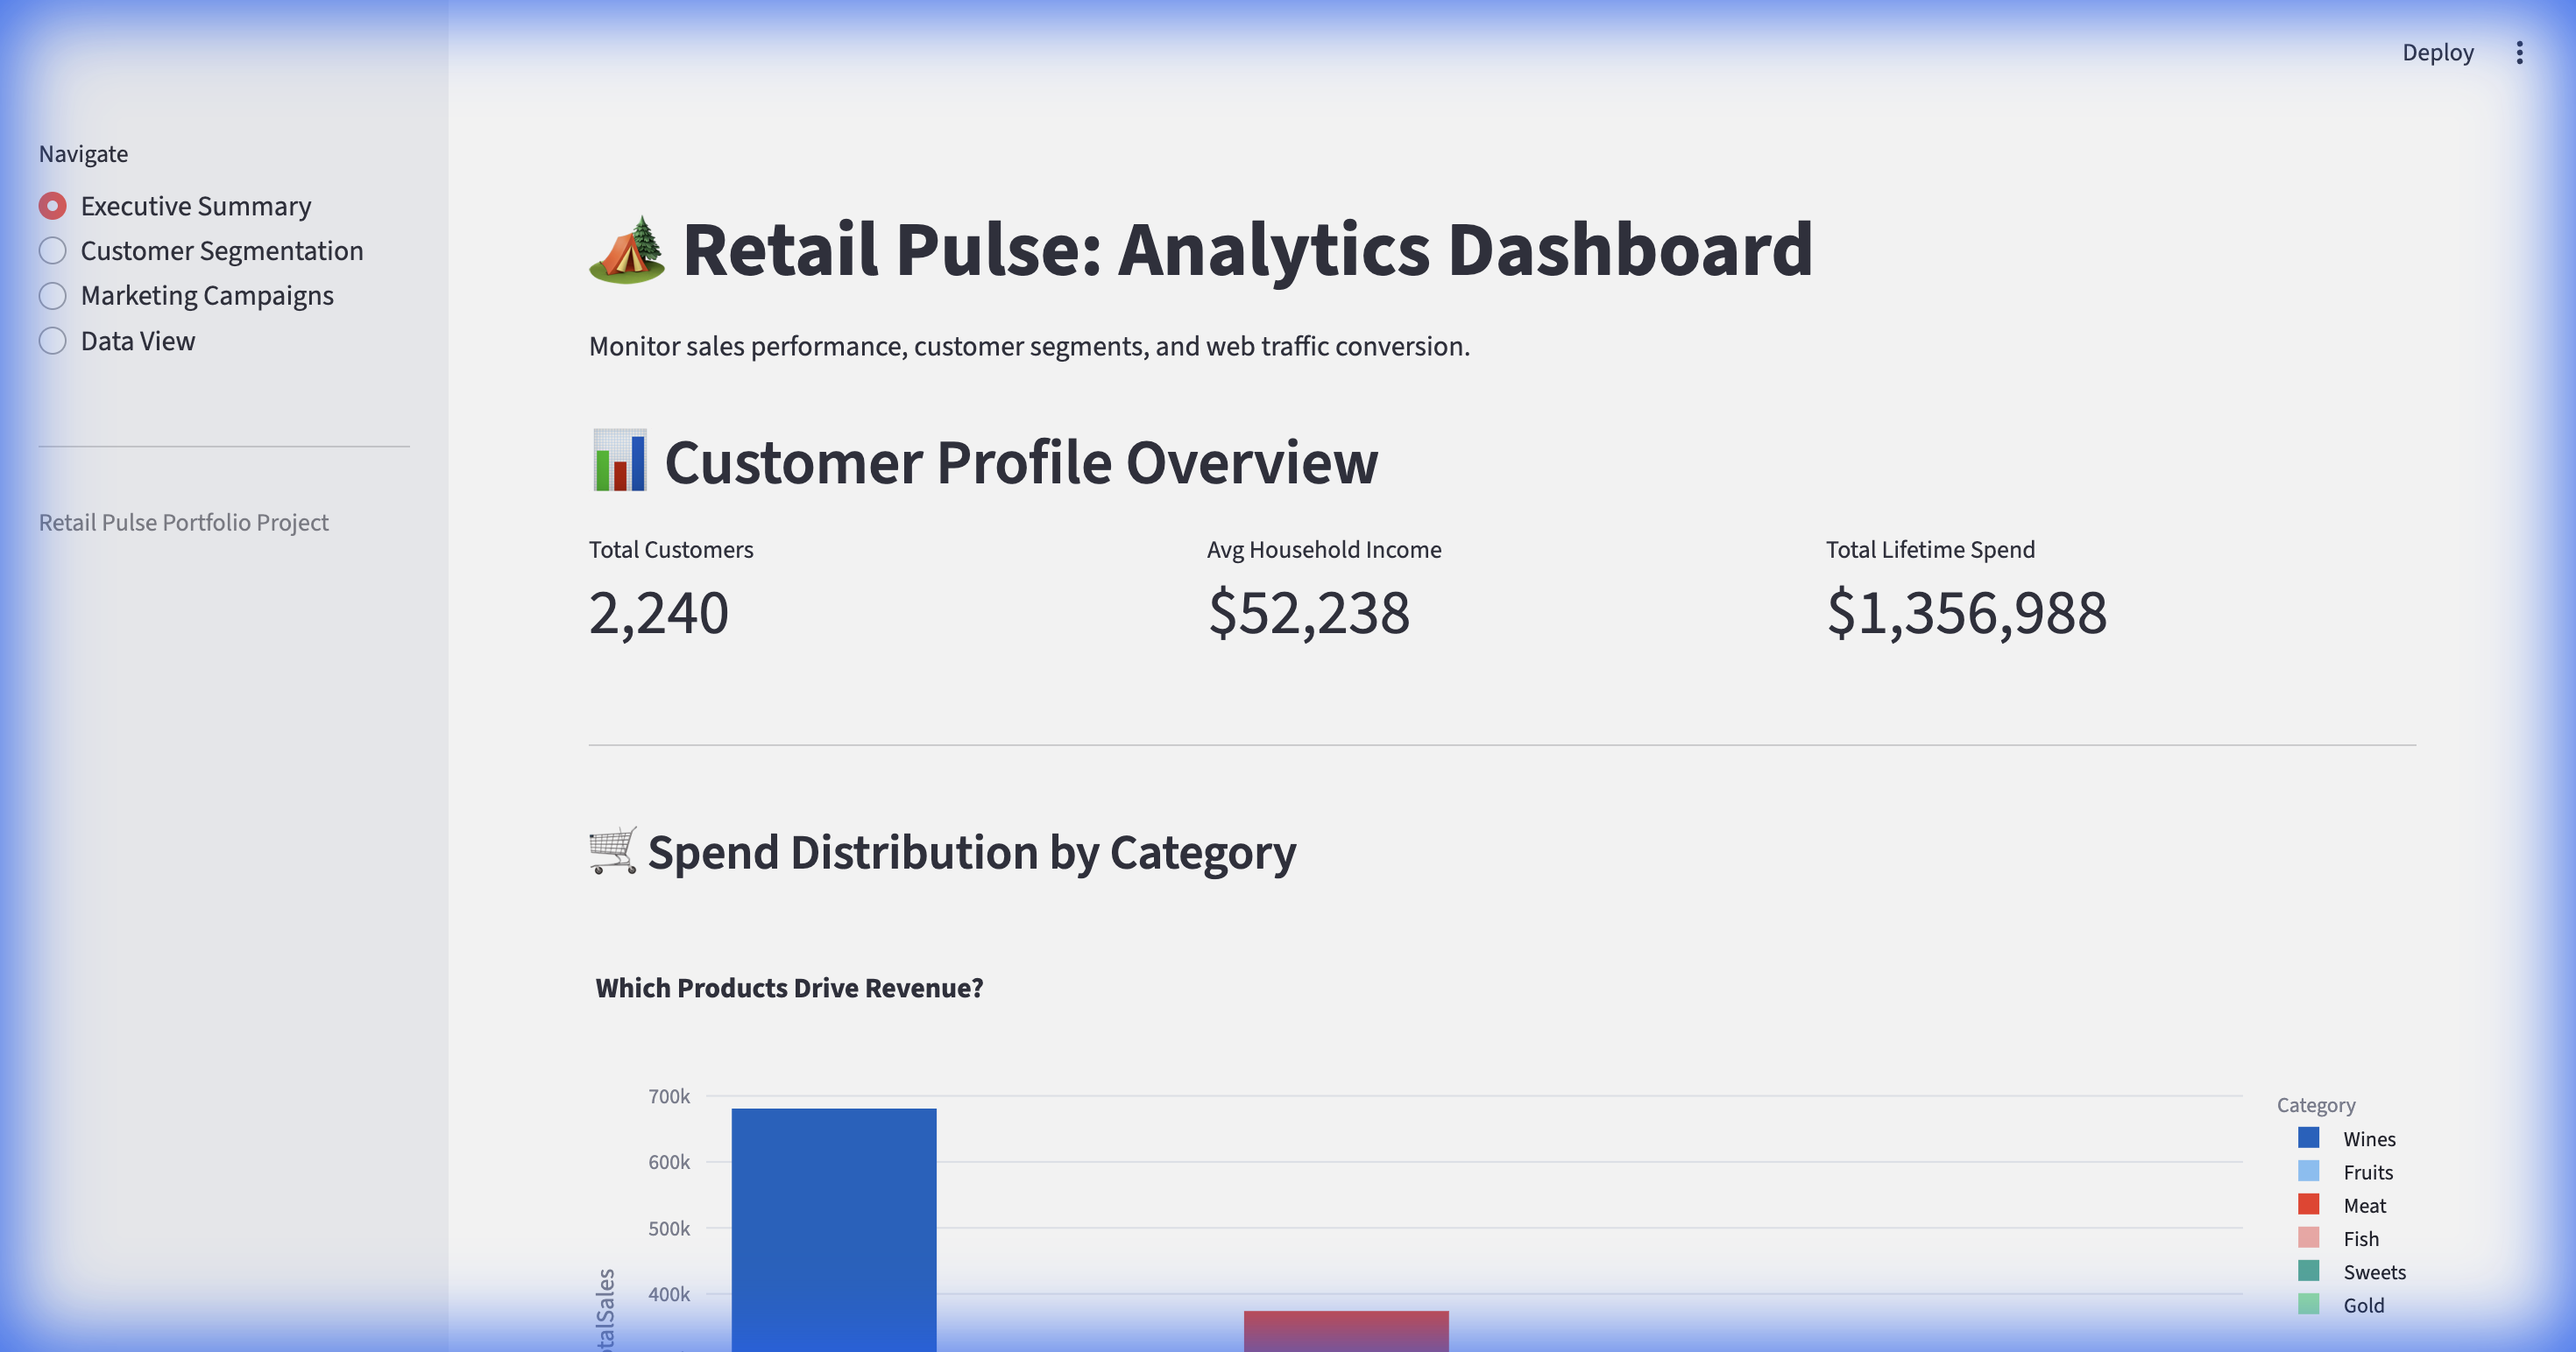
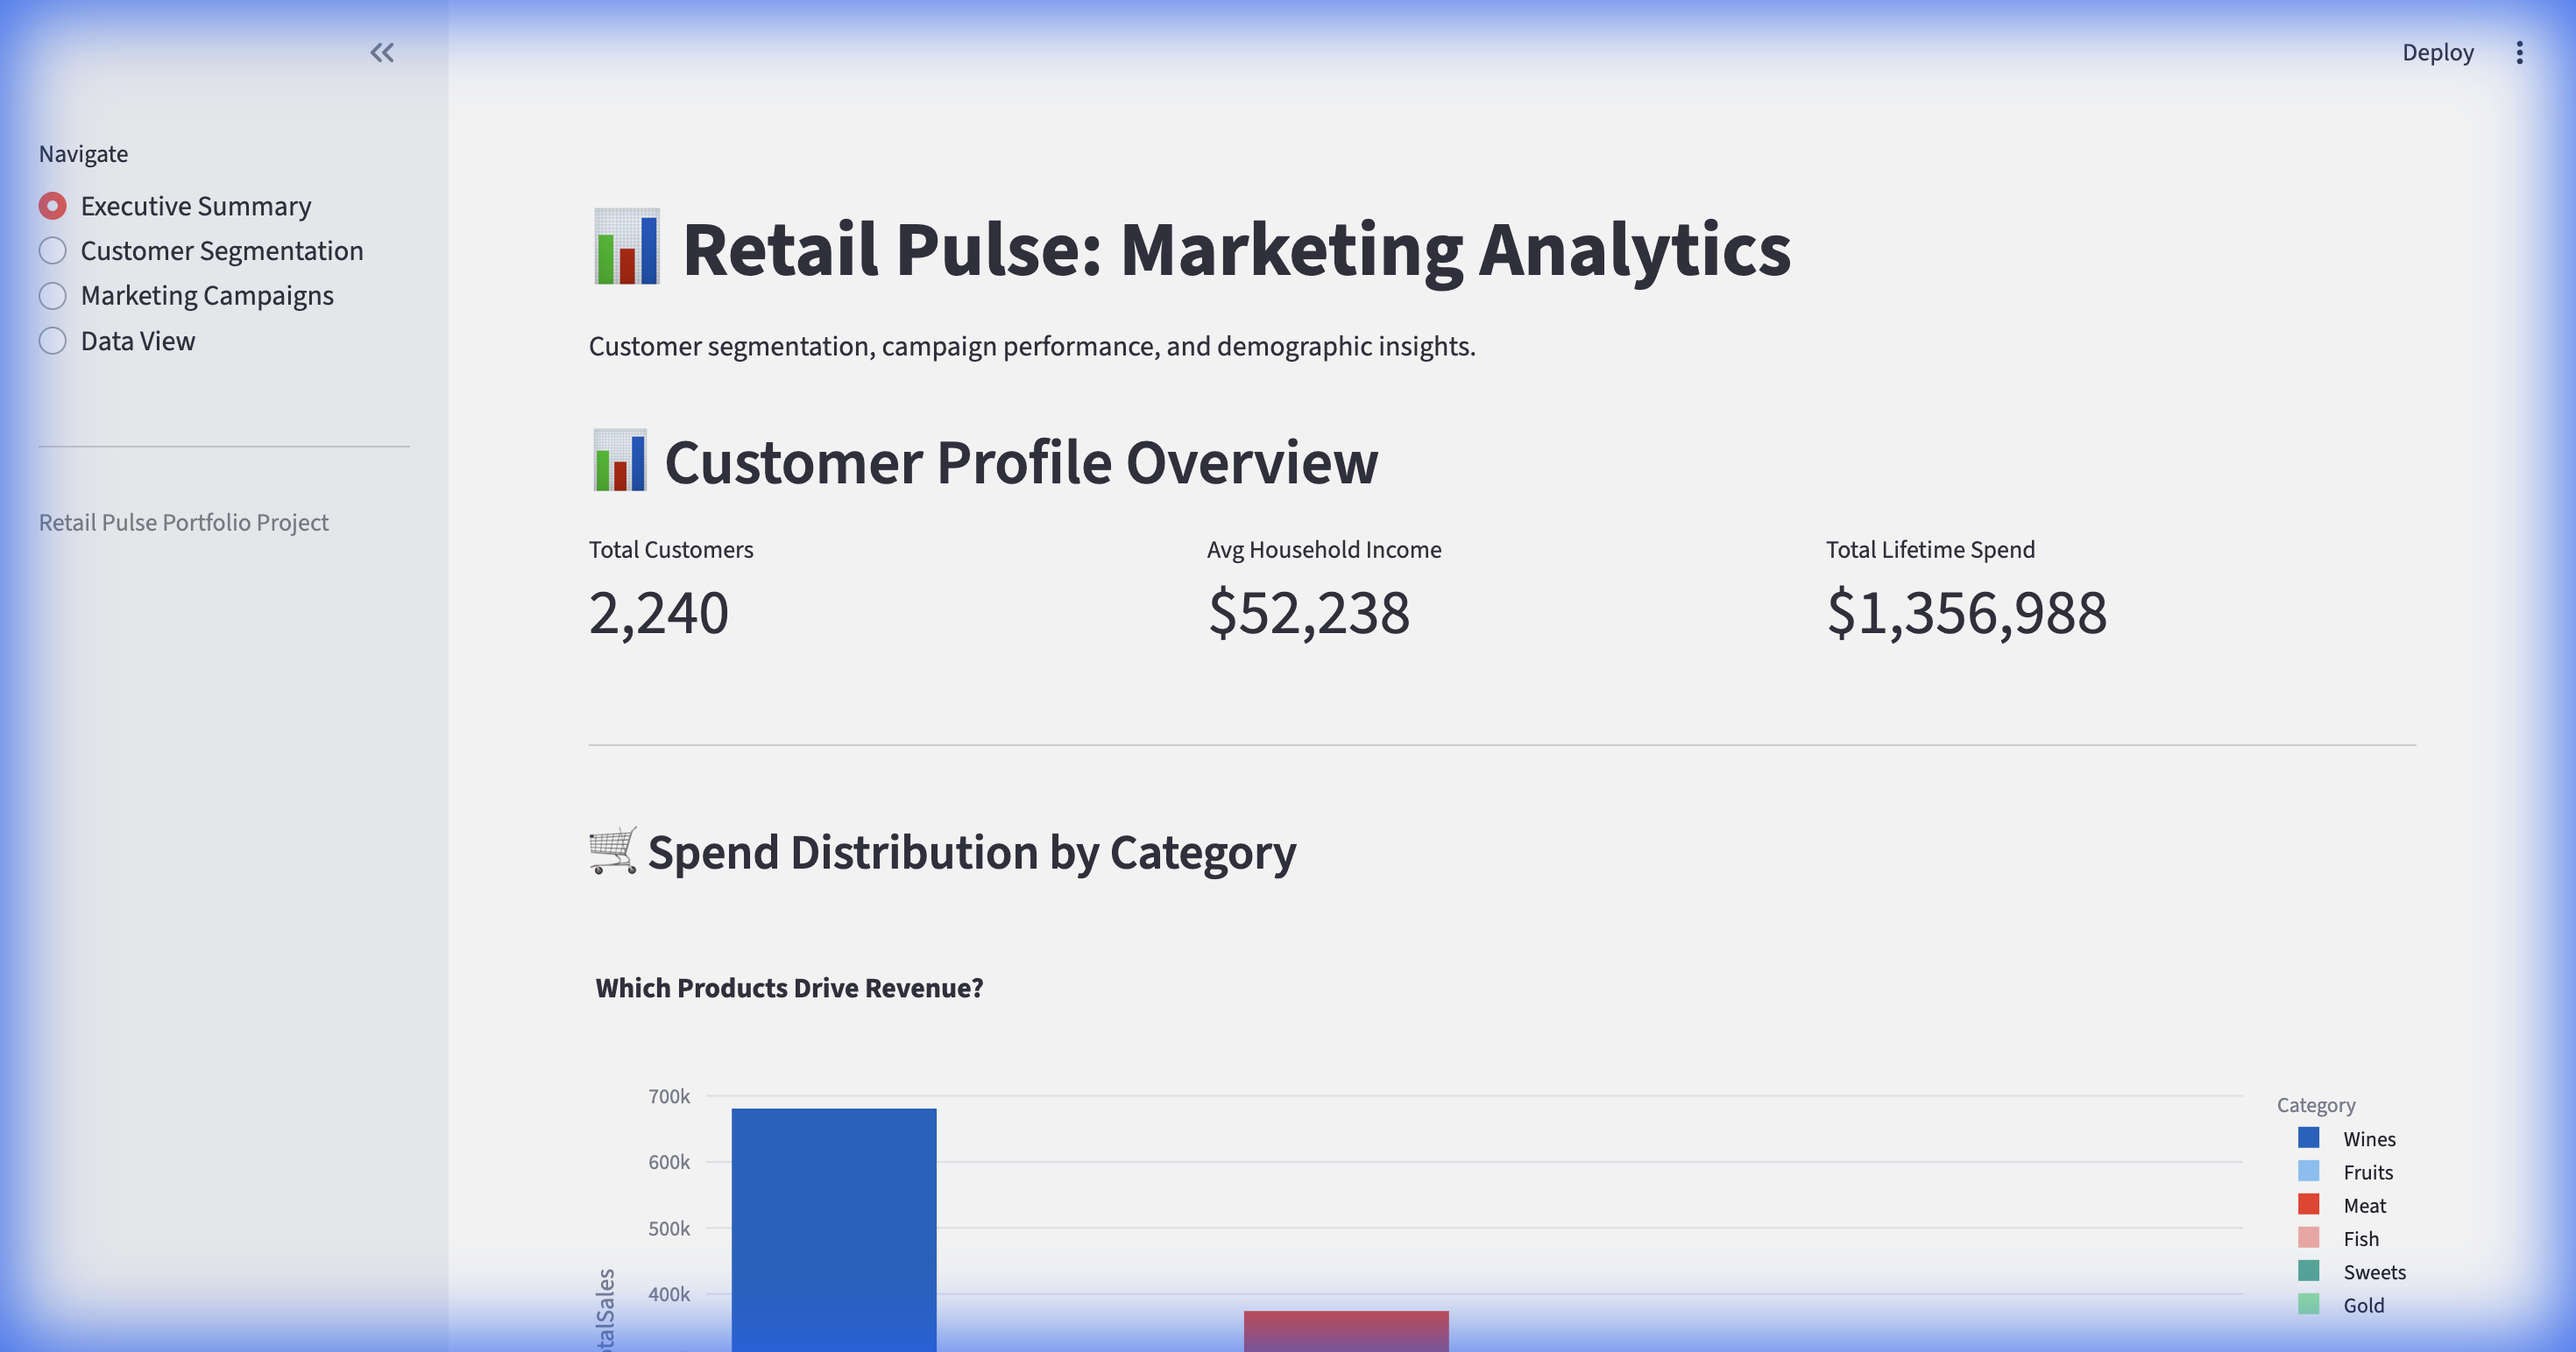
Refactor project for marketing campaign dataset
- Update README with accurate project description
- Remove unused files: data_generator.py, kpi_sales.sql, task docs
- Clean db_manager.py: remove unused table definitions, improve data cleaning
- Update app.py: new branding, simplified table whitelist
- Update verify_queries.py: test only marketing data queries
- Update requirements.txt with actual dependencies
- New dashboard screenshot

Changed region(s): [[0.4333, 0.1554, 0.7119, 0.2176], [0.2167, 0.2487, 0.5571, 0.2798], [0.2167, 0.1554, 0.2786, 0.2176]]

diff --git a/src/db_manager.py b/src/db_manager.py
@@ -3,24 +3,17 @@ import pandas as pd
 import os
 
 DB_PATH = os.path.join(os.path.dirname(__file__), '../data/retail_pulse.db')
-RAW_DATA_DIR = os.path.join(os.path.dirname(__file__), '../data/raw')
 
 def init_db():
     """
     Initializes the SQLite database with the required tables.
     """
     print(f"Initializing database at {DB_PATH}...")
+    os.makedirs(os.path.dirname(DB_PATH), exist_ok=True)
     conn = sqlite3.connect(DB_PATH)
     cursor = conn.cursor()
     
-    # Create Tables for original synthetic data (keeping for reference unless fully replaced)
-    cursor.execute('''CREATE TABLE IF NOT EXISTS customers (customer_id INTEGER PRIMARY KEY, name TEXT, email TEXT, state TEXT, signup_date DATE)''')
-    cursor.execute('''CREATE TABLE IF NOT EXISTS products (product_id INTEGER PRIMARY KEY, name TEXT, category TEXT, price REAL)''')
-    cursor.execute('''CREATE TABLE IF NOT EXISTS transactions (order_id INTEGER PRIMARY KEY, customer_id INTEGER, product_id INTEGER, date DATE, amount REAL, quantity INTEGER)''')
-    cursor.execute('''CREATE TABLE IF NOT EXISTS web_traffic (session_id TEXT, user_id INTEGER, page_path TEXT, duration_seconds INTEGER, converted BOOLEAN, timestamp DATETIME)''')
-
-    # --- NEW: Marketing Campaign Table ---
-    # Based on the CSV structure: ID, Year_Birth, Education, Marital_Status, Income, etc.
+    # Marketing Campaign Table
     cursor.execute('''
     CREATE TABLE IF NOT EXISTS marketing_data (
         ID INTEGER PRIMARY KEY,
@@ -61,16 +54,15 @@ def init_db():
 
 def clean_and_load():
     """
-    Reads CSVs, cleans data, and loads it into the database.
+    Reads marketing_campaign.csv, cleans data, and loads it into the database.
     """
     print("Loading data...")
     conn = sqlite3.connect(DB_PATH)
     
-    # --- Load Marketing Campaign Data ---
     marketing_path = os.path.join(os.path.dirname(__file__), '../marketing_campaign.csv')
     if os.path.exists(marketing_path):
         print(f"Loading {marketing_path}...")
-        # Read Tab-Separated Values (sep='\t')
+        # Read Tab-Separated Values
         df = pd.read_csv(marketing_path, sep='\t')
         
         # Data Cleaning
@@ -78,15 +70,19 @@ def clean_and_load():
         df['Income'] = df['Income'].fillna(df['Income'].median())
         
         # 2. Parse Dt_Customer to YYYY-MM-DD
-        # Original format seems to be dd-mm-yyyy based on view_file output (e.g. 04-09-2012)
         df['Dt_Customer'] = pd.to_datetime(df['Dt_Customer'], dayfirst=True).dt.date
         
-        # 3. Clean Marital Status (consolidate 'Alone', 'Absurd', 'YOLO' -> 'Single' or similar if needed, keeping simple for now)
+        # 3. Clean unusual Marital Status values
+        df['Marital_Status'] = df['Marital_Status'].replace({
+            'Alone': 'Single',
+            'Absurd': 'Other',
+            'YOLO': 'Other'
+        })
         
         df.to_sql('marketing_data', conn, if_exists='replace', index=False)
-        print("Marketing data loaded.")
+        print(f"Loaded {len(df)} records.")
     else:
-        print("Warning: marketing_campaign.csv not found at expected path.")
+        print("Error: marketing_campaign.csv not found.")
     
     conn.close()
     print("Data loaded successfully.")

diff --git a/src/app.py b/src/app.py
@@ -5,7 +5,7 @@ import os
 import plotly.express as px
 
 # Set page config
-st.set_page_config(page_title="Retail Pulse Analytics", layout="wide", page_icon="🏕")
+st.set_page_config(page_title="Retail Pulse Analytics", layout="wide", page_icon="📊")
 
 # Constants
 DB_PATH = os.path.join(os.path.dirname(__file__), '../data/retail_pulse.db')
@@ -27,7 +27,7 @@ def run_query(query_file):
         conn.close()
 
 # Whitelist of valid table names to prevent SQL injection
-VALID_TABLES = {'customers', 'products', 'transactions', 'web_traffic', 'marketing_data'}
+VALID_TABLES = {'marketing_data'}
 
 def load_data(table_name):
     """Loads a raw table from the database."""
@@ -39,8 +39,8 @@ def load_data(table_name):
     return df
 
 # Main App Layout
-st.title("🏕 Retail Pulse: Analytics Dashboard")
-st.markdown("Monitor sales performance, customer segments, and web traffic conversion.")
+st.title("📊 Retail Pulse: Marketing Analytics")
+st.markdown("Customer segmentation, campaign performance, and demographic insights.")
 
 
 # Sidebar Navigation

diff --git a/src/verify_queries.py b/src/verify_queries.py
@@ -6,6 +6,7 @@ DB_PATH = os.path.join(os.path.dirname(__file__), '../data/retail_pulse.db')
 SQL_DIR = os.path.join(os.path.dirname(__file__), '../sql')
 
 def run_query(filename):
+    """Execute a SQL query file and display results."""
     print(f"\n--- Running {filename} ---")
     with open(os.path.join(SQL_DIR, filename), 'r') as f:
         query = f.read()
@@ -21,7 +22,6 @@ def run_query(filename):
         conn.close()
 
 if __name__ == "__main__":
-    run_query('kpi_sales.sql')
     run_query('rfm_analysis.sql')
     run_query('demographics.sql')
     run_query('campaign_performance.sql')

diff --git a/README.md b/README.md
@@ -1,70 +1,80 @@
-# 🏕 Retail Pulse: Portfolio Project
+# 📊 Retail Pulse: Marketing Analytics Dashboard
 
-**Retail Pulse** is an end-to-end data analytics project simulating a retail environment (Camping & RV Gear). It demonstrates the full data lifecycle: generating synthetic data, building an ETL pipeline with SQLite, running SQL analysis, and visualizing KPIs in an interactive Streamlit dashboard.
+A customer analytics project analyzing a marketing campaign dataset. Features customer segmentation (RFM analysis), demographic insights, and campaign performance tracking via an interactive Streamlit dashboard.
+
+![Dashboard](screenshots/dashboard.png)
 
 ## 🚀 Features
 
--   **Data Engineering**: 
-    -   Synthetic data generation using `Faker` (Customers, Products, Transactions, Web Traffic).
-    -   ETL pipeline to clean and load data into a SQLite database.
--   **SQL Analysis**: 
-    -   Complex queries for RFM (Recency, Frequency, Monetary) segmentation.
-    -   Monthly sales aggregations and web conversion funnels.
--   **Interactive Dashboard**: 
-    -   Built with **Streamlit** and **Plotly**.
-    -   Visualizes Sales Trends, Customer Segments, and Web Traffic.
+- **Customer Segmentation**: RFM (Recency, Frequency, Monetary) analysis to identify high-value customers
+- **Demographic Analysis**: Spend patterns by education level and marital status
+- **Campaign Performance**: Conversion rate tracking across 6 marketing campaigns
+- **Interactive Dashboard**: Built with Streamlit and Plotly for data exploration
 
 ## 🛠 Tech Stack
 
--   **Python 3.9+**
--   **Pandas & NumPy**: Data manipulation.
--   **SQLite**: Relational database.
--   **Streamlit**: Web application framework.
--   **Plotly**: Interactive visualizations.
+- **Python 3.9+**
+- **Pandas**: Data manipulation and cleaning
+- **SQLite**: Data storage and SQL queries
+- **Streamlit**: Interactive web dashboard
+- **Plotly**: Visualizations
+
+## 📂 Project Structure
+
+```
+RetailAnalyticsPortfolio/
+├── src/
+│   ├── app.py             # Streamlit Dashboard
+│   ├── db_manager.py      # Data loading and ETL
+│   └── verify_queries.py  # SQL query testing
+├── sql/
+│   ├── rfm_analysis.sql       # Customer segmentation
+│   ├── demographics.sql       # Demographic insights
+│   ├── campaign_performance.sql # Campaign metrics
+│   └── kpi_sales.sql          # Sales KPIs
+├── data/
+│   └── retail_pulse.db    # SQLite Database
+├── screenshots/
+│   └── dashboard.png      # Dashboard preview
+├── marketing_campaign.csv # Source dataset
+└── requirements.txt
+```
 
 ## 🏁 Getting Started
 
-### 1. Installation
-
-Clone the repository and install dependencies:
+### 1. Install Dependencies
 
 ```bash
 pip install -r requirements.txt
 ```
 
-### 2. Data Generation & Setup
-
-Run the following command to generate synthetic data and populate the database:
+### 2. Load Data
 
 ```bash
-# Generate CSVs and Load into SQLite
-python3 src/data_generator.py
 python3 src/db_manager.py
 ```
 
-### 3. Run the Dashboard
-
-Launch the Streamlit app:
+### 3. Run Dashboard
 
 ```bash
 streamlit run src/app.py
 ```
 
-The app will open in your browser at `http://localhost:8501`.
+Open `http://localhost:8501` in your browser.
 
-## 📂 Project Structure
+## 📈 Dataset
 
-```
-RetailPulse/
-├── src/
-│   ├── data_generator.py  # Generates synthetic data
-│   ├── db_manager.py      # ETL: Loads CSVs to SQLite
-│   └── app.py             # Streamlit Dashboard Entry Point
-├── data/
-│   ├── raw/               # Generated CSV files
-│   └── retail_pulse.db    # SQLite Database
-├── sql/                   # SQL Scripts for Analysis
-│   ├── kpi_sales.sql
-│   └── rfm_analysis.sql
-└── requirements.txt
-```
+The project uses a marketing campaign dataset with 2,240 customers including:
+- Demographics (income, education, marital status)
+- Purchase history across 6 product categories
+- Campaign response data (6 campaigns)
+- Customer recency and purchase frequency
+
+## 📊 Dashboard Pages
+
+| Page | Description |
+|------|-------------|
+| **Executive Summary** | KPI metrics and spend by category |
+| **Customer Segmentation** | Income vs spend analysis, RFM scatter plots |
+| **Marketing Campaigns** | Conversion rates, responder profiles |
+| **Data View** | Raw data inspector |
